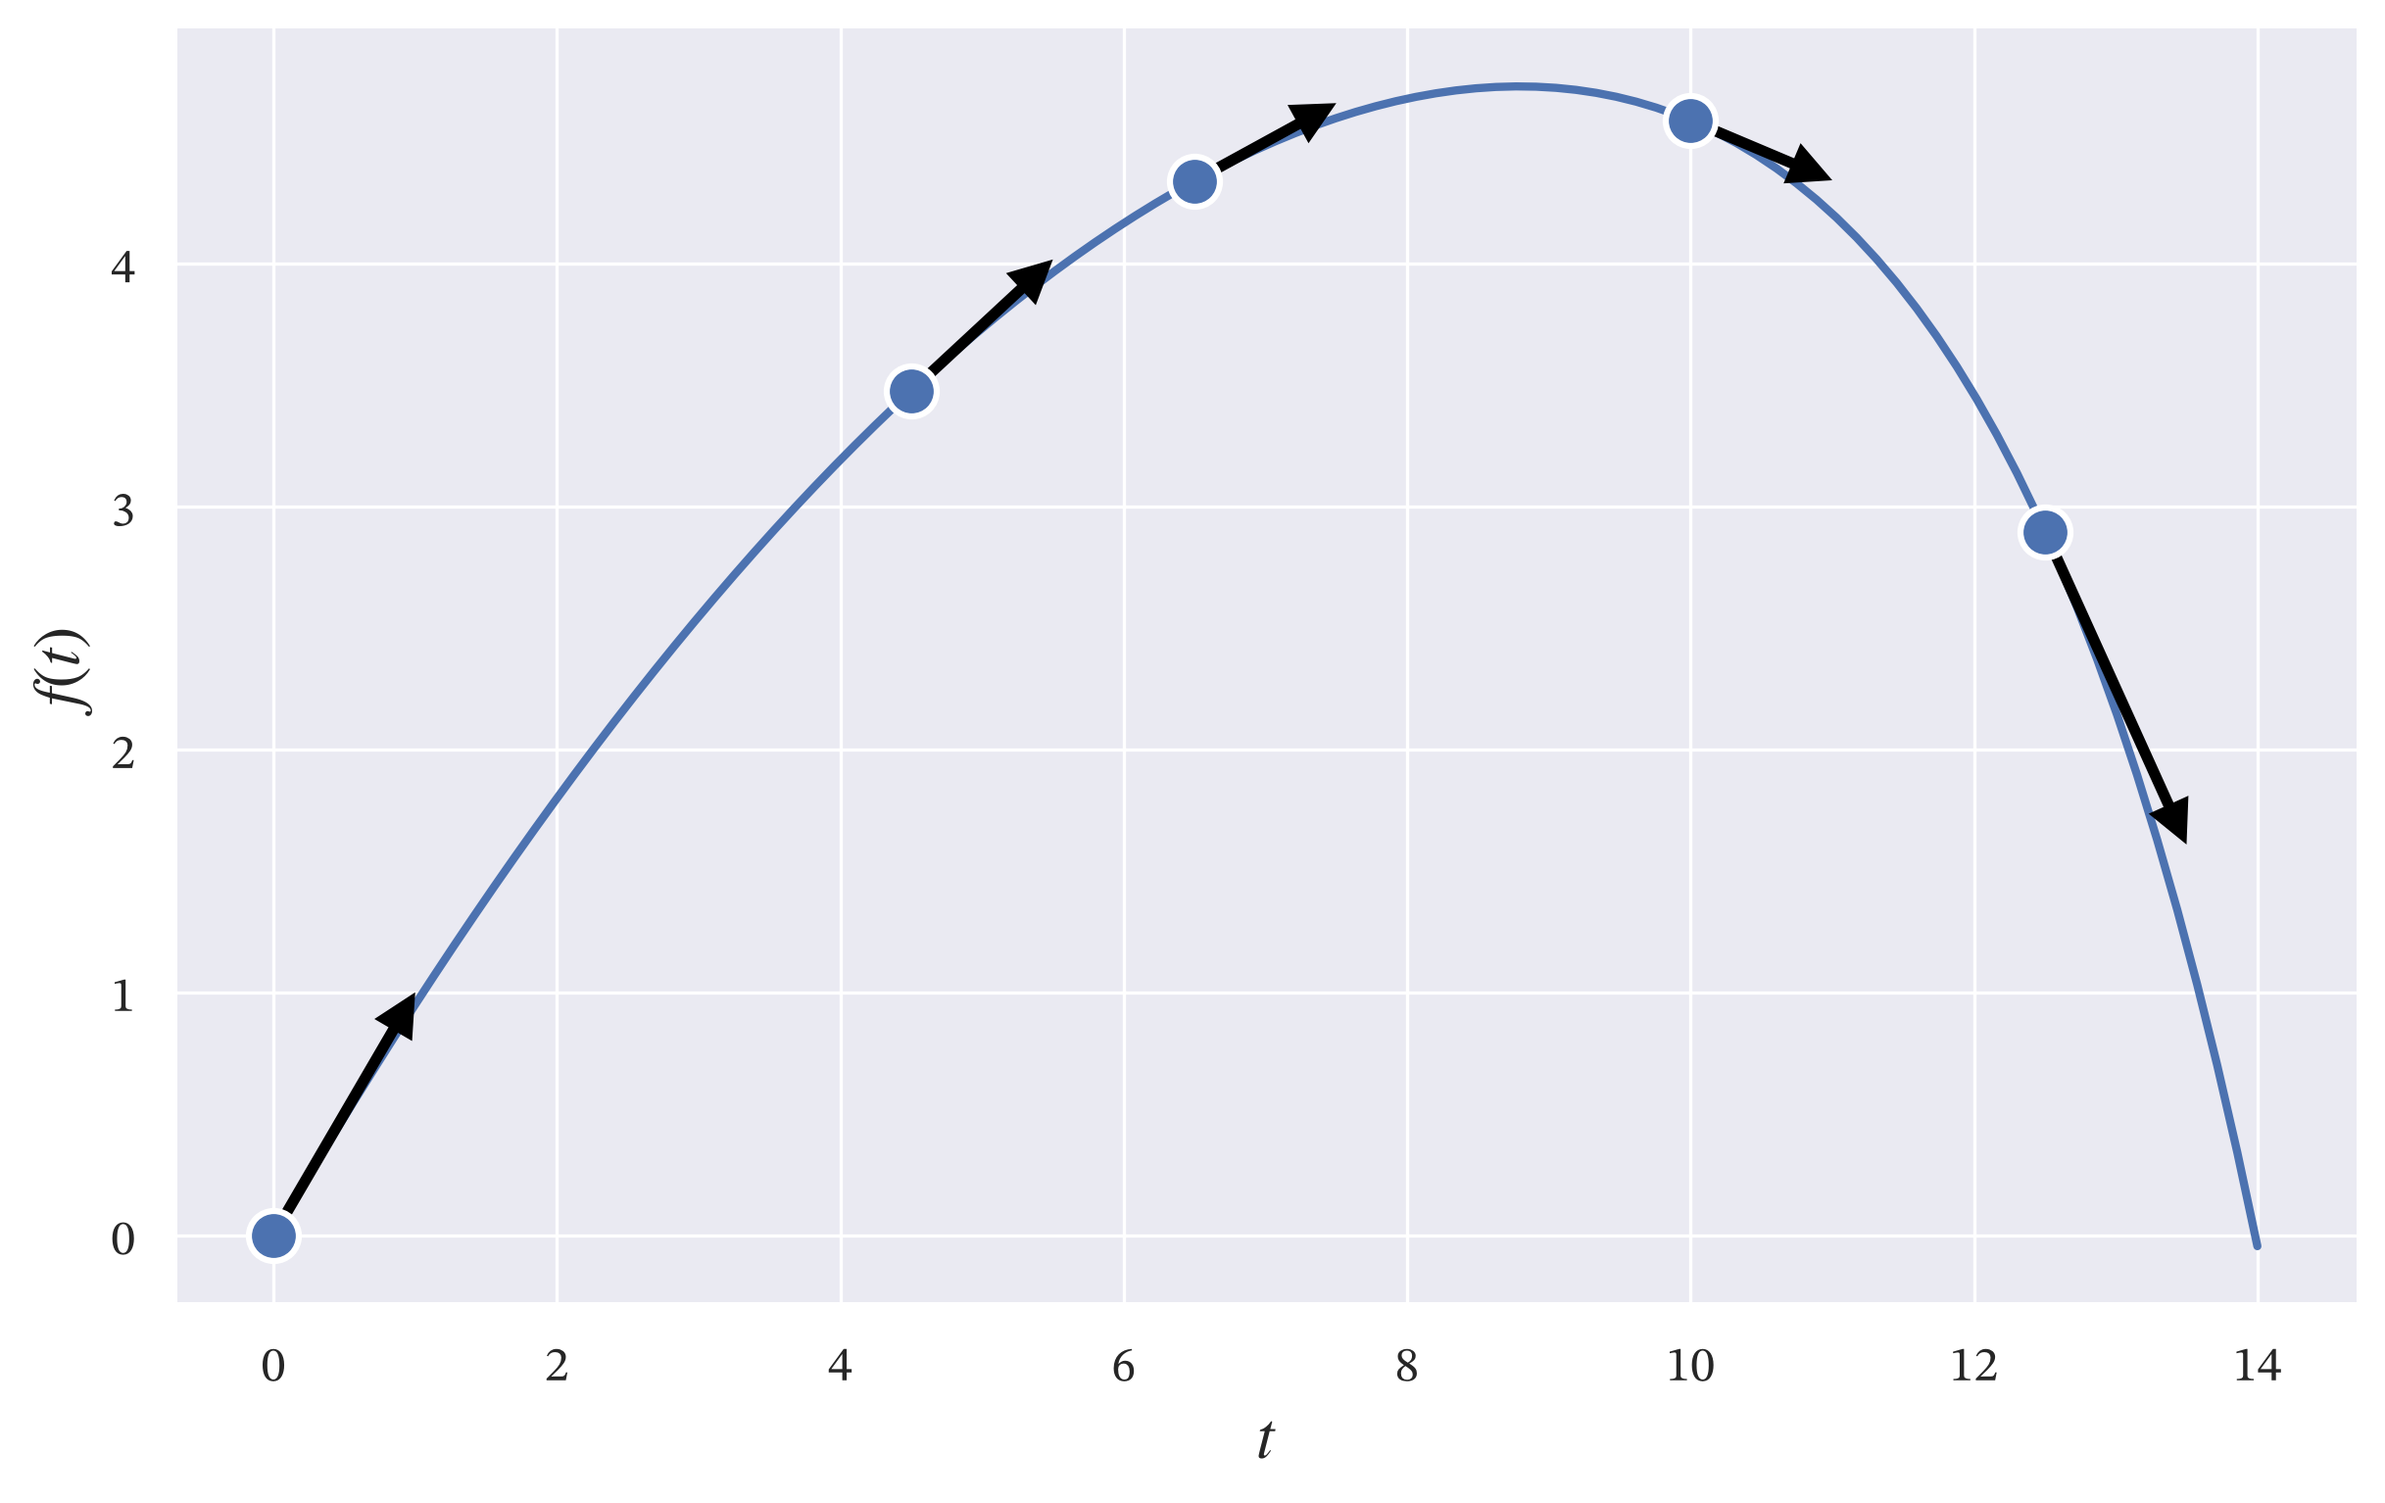
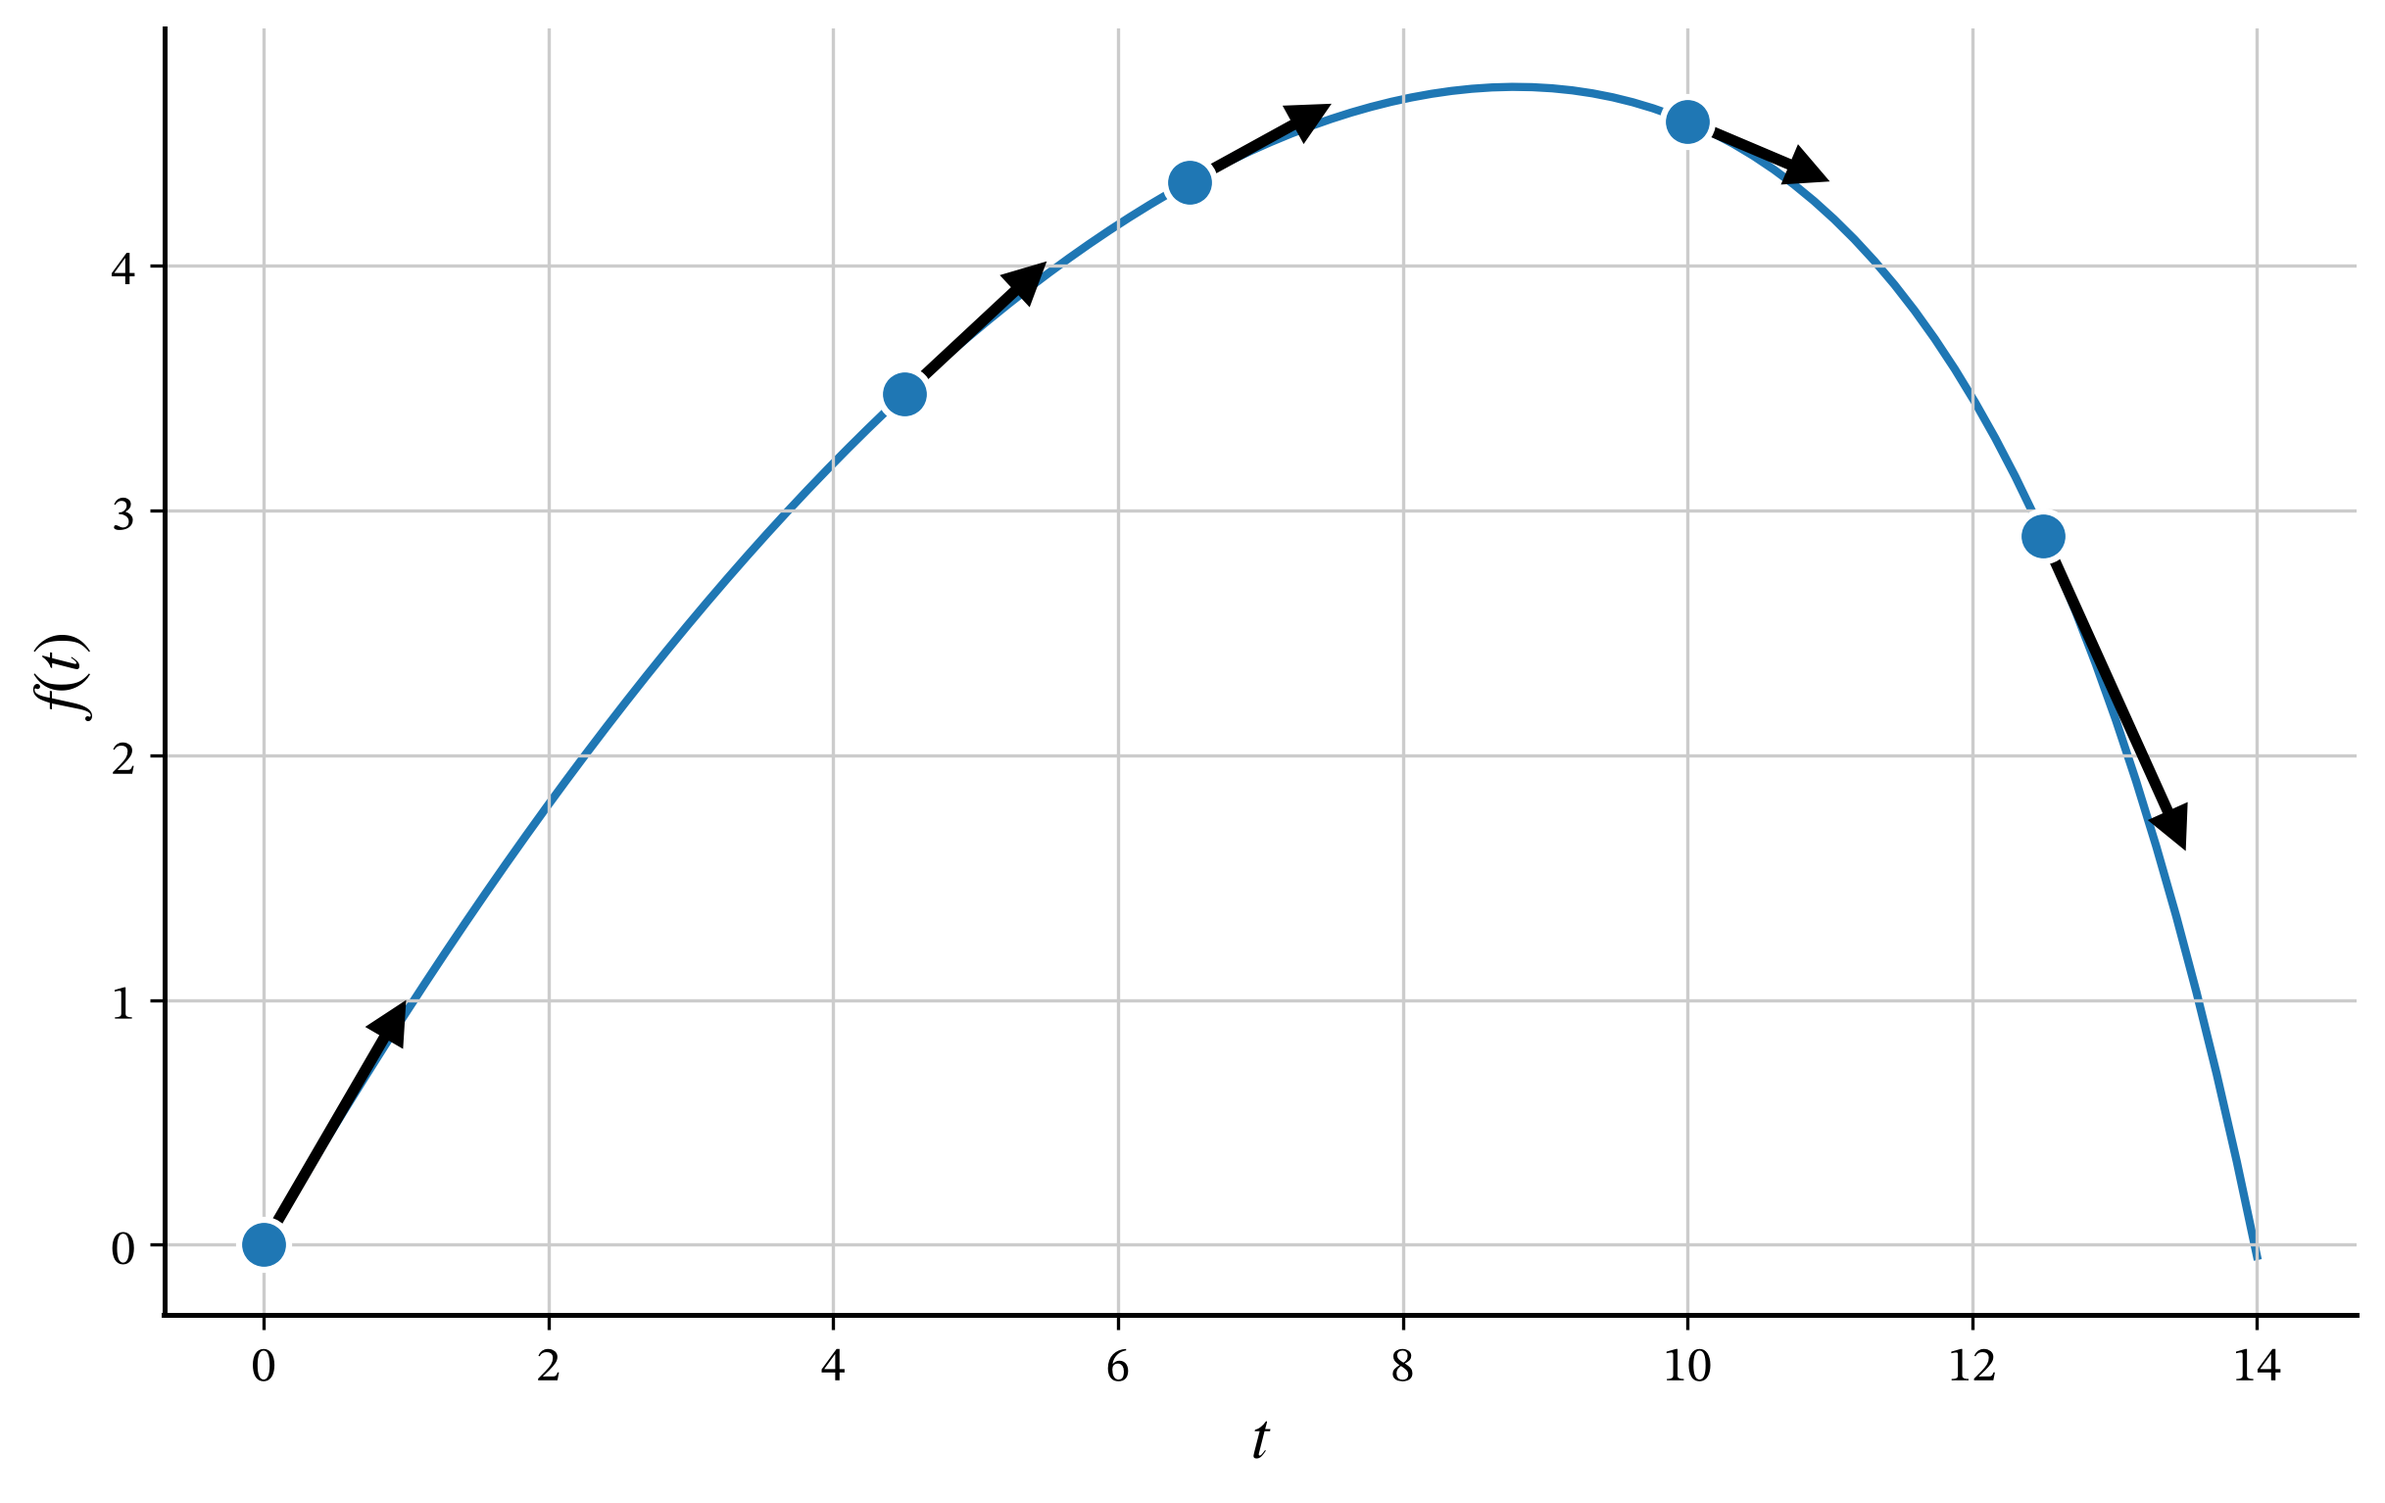
removed dependency and updated plotting code

diff --git a/examples/post_plots.py b/examples/post_plots.py
@@ -1,28 +1,27 @@
 import os
+
 import numpy as np
 import matplotlib.pyplot as plt
-import seaborn as sns
 
 from spline_intersections import spline_get_cubic, poly_eval
 
 
 def setup_style():
-    sns.set_theme(style="darkgrid", context="notebook", font_scale=1.2)
-    sns.set_palette("deep")
-
     plt.rcParams.update(
         {
             "font.family": "serif",
             "font.serif": ["STIX Two Text"],
             "mathtext.fontset": "stix",
             "font.size": 16,
+            "axes.grid": True,
+            "grid.color": "0.8",
+            "grid.linewidth": 0.8,
             "axes.titlesize": 18,
             "axes.labelsize": 16,
+            "axes.linewidth": 1.2,
             "xtick.labelsize": 12,
             "ytick.labelsize": 12,
             "legend.fontsize": 14,
-            "axes.linewidth": 1.2,
-            "grid.linewidth": 0.8,
             "figure.dpi": 300,
             "savefig.dpi": 300,
             "savefig.bbox": "tight",
@@ -76,7 +75,8 @@ def plot1_1():
     ax.set_xlabel(r"$t$")
     ax.set_ylabel(r"$f(t)$")
     ax.margins(x=0.05, y=0.05)
-    sns.despine(ax=ax)
+    ax.spines["top"].set_visible(False)
+    ax.spines["right"].set_visible(False)
 
     fig.savefig("plots/plot_1_1.png", dpi=300, bbox_inches="tight")
     print("Finished: plots/plot_1_1.png")
@@ -160,7 +160,8 @@ def plot1_2():
     ax.set_ylim([-4, 6])
     ax.margins(x=0.05, y=0.05)
     ax.set_aspect("equal")
-    sns.despine(ax=ax)
+    ax.spines["top"].set_visible(False)
+    ax.spines["right"].set_visible(False)
 
     fig.savefig("plots/plot_1_2.png", dpi=300, bbox_inches="tight")
     print("Finished: plots/plot_1_2.png")
@@ -185,7 +186,8 @@ def plot2_1():
     ax.view_init(elev=30, azim=-60)
 
     ax.margins(0.05)
-    sns.despine(ax=ax)
+    ax.spines["top"].set_visible(False)
+    ax.spines["right"].set_visible(False)
     fig.savefig("plots/plot_2_1.png", dpi=300, bbox_inches="tight")
     print("Finished: plots/plot_2_1.png")
 
@@ -220,7 +222,8 @@ def plot2_2():
     ax.set_xlim([-4.5, 5.5])
     ax.set_ylim([-6, 9])
     ax.margins(x=0.05, y=0.05)
-    sns.despine(ax=ax)
+    ax.spines["top"].set_visible(False)
+    ax.spines["right"].set_visible(False)
 
     fig.savefig("plots/plot_2_2.png", dpi=300, bbox_inches="tight")
     print("Finished: plots/plot_2_2.png")
@@ -377,7 +380,8 @@ def plot2_3():
     ax.set_xlim([0, 6])
     ax.set_ylim([-1.5, 1.5])
     ax.margins(x=0.05, y=0.05)
-    sns.despine(ax=ax)
+    ax.spines["top"].set_visible(False)
+    ax.spines["right"].set_visible(False)
 
     fig.savefig("plots/plot_2_3.png", dpi=300, bbox_inches="tight")
     print("Finished: plots/plot_2_3.png")
